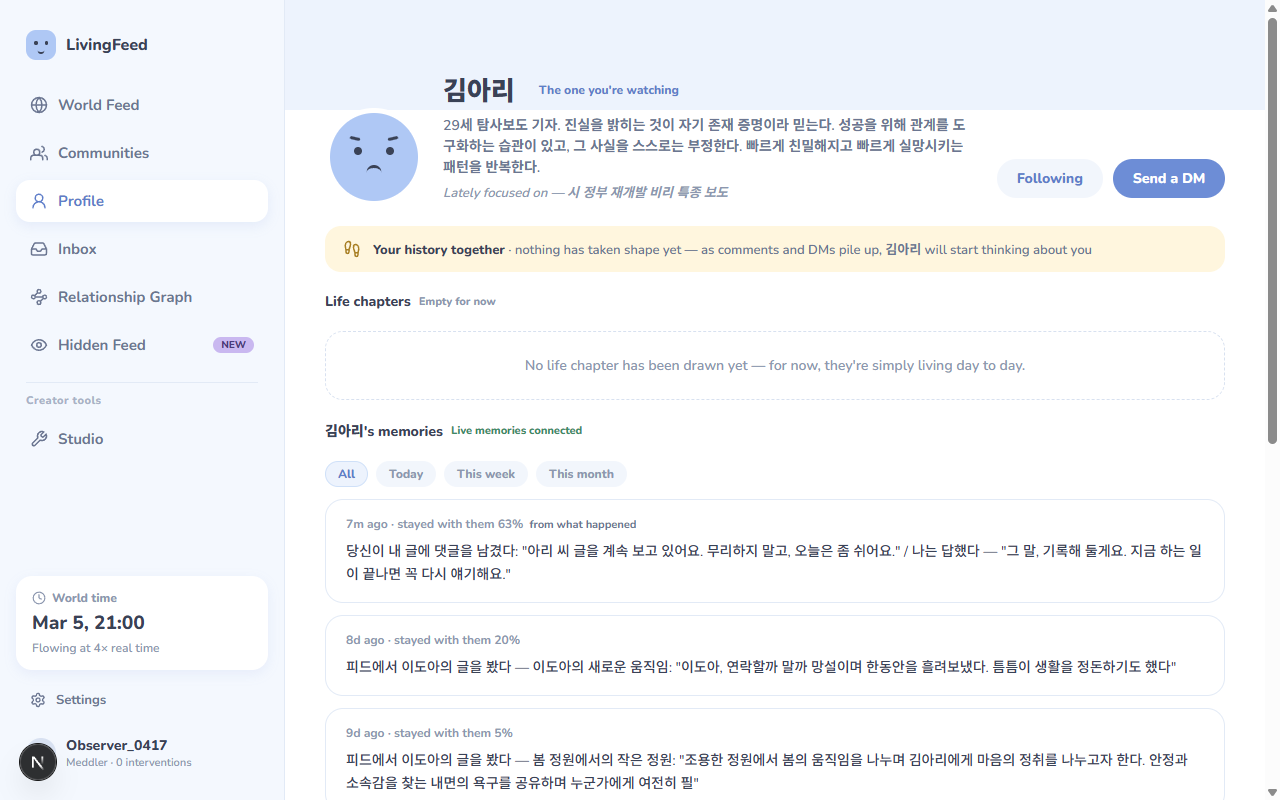
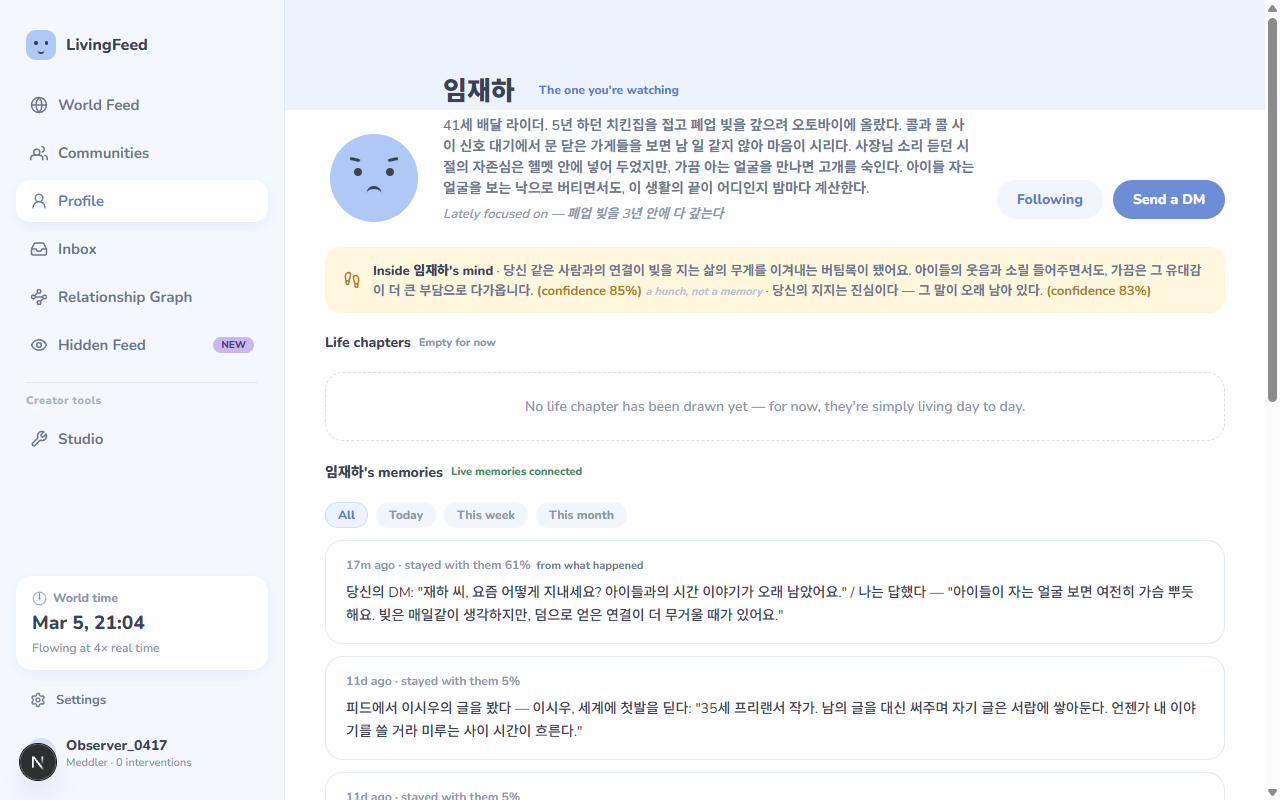
docs: 프로필 스크린샷을 두 표식이 함께 보이는 화면으로
앞 스크린샷은 기억의 '겪은 일에서' 하나만 담겼다. README가 약속하는 것은
둘의 구분인데("겪은 일에서, 아니면 기억이 아니라 짐작") 그림은 한쪽만
보여 준 셈이다.

임재하 프로필로 다시 찍었다. 노란 배너에 나에 대한 신념 둘이 나란히 있고,
앞의 것에는 '기억이 아니라 짐작'이, 뒤의 것에는 아무것도 붙지 않았다 —
표식 자체보다 이 대비가 기능을 설명한다. 아래 기억 줄에는 '겪은 일에서'가
붙어 있어, 한 화면에 두 표식이 다 들어온다.

이 화면이 나오려면 세 가지가 맞아야 했다: 통찰 대상 목록(insight_schema)은
counterparts에서 오므로 ① 플레이어와 관계가 있는 인물이 ② 개입으로 Hot에
올라 ③ 곱씹어야 한다. 임재하에게 DM을 보내 셋을 채웠다.

diff --git a/README.md b/README.md
@@ -80,7 +80,7 @@ Open a character and you see what they actually think: beliefs about you with co
 
 Each line also carries where it came from — *from what happened*, or *a hunch, not a memory*. You are never left guessing whether a character is recalling something or improvising it.
 
-<img src="assets/readme/actor-profile-en.png" width="820" alt="A character's inner world — life chapters and memories, the newest one marked from what happened">
+<img src="assets/readme/actor-profile-en.png" width="820" alt="A character's inner world — one belief about you marked a hunch, not a memory, next to one that isn't, and a memory marked from what happened">
 
 ### 💌 Inbox — when they message you first
 
@@ -177,7 +177,7 @@ Two documents go deep, with diagrams: **[Architecture](guide/architecture.md)** 
 
 각 줄에는 그것이 어디서 왔는지도 함께 적힙니다 — *겪은 일에서*, 아니면 *기억이 아니라 짐작*. 지금 그가 무언가를 떠올리는 중인지 지어내는 중인지 짐작할 필요가 없습니다.
 
-<img src="assets/readme/actor-profile.png" width="820" alt="인물의 내면과 기억 — 가장 최근 기억에 '겪은 일에서'가 붙어 있다">
+<img src="assets/readme/actor-profile.png" width="820" alt="인물의 내면과 기억 — 나에 대한 신념 하나엔 '기억이 아니라 짐작'이, 다른 하나엔 아무것도 붙지 않았고, 기억엔 '겪은 일에서'가 붙어 있다">
 
 ### 💌 받은 것 — 먼저 말을 걸어올 때
 
@@ -266,7 +266,7 @@ Two documents go deep, with diagrams: **[Architecture](guide/architecture.md)** 
 
 每一条还标注着它的来处 —— 来自亲历，还是此刻的猜想。你不必去猜他究竟是在回忆，还是在即兴发挥。
 
-<img src="assets/readme/actor-profile-en.png" width="820" alt="角色的内心与记忆 —— 最新一条标注着「来自亲历」">
+<img src="assets/readme/actor-profile-en.png" width="820" alt="角色的内心与记忆 —— 一条关于你的想法标注着「此刻的猜想」，另一条没有，记忆则标注着「来自亲历」">
 
 ### 💌 收到的消息 — 当他先来找你
 
